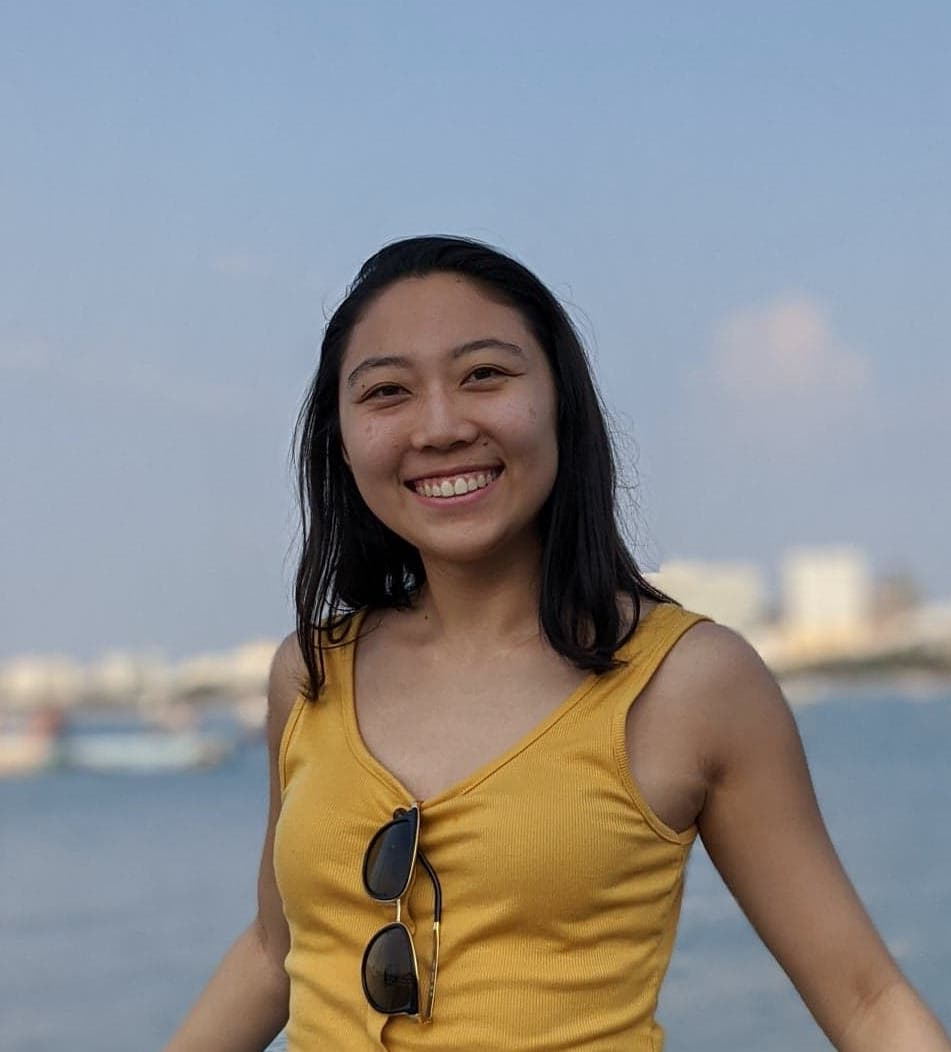
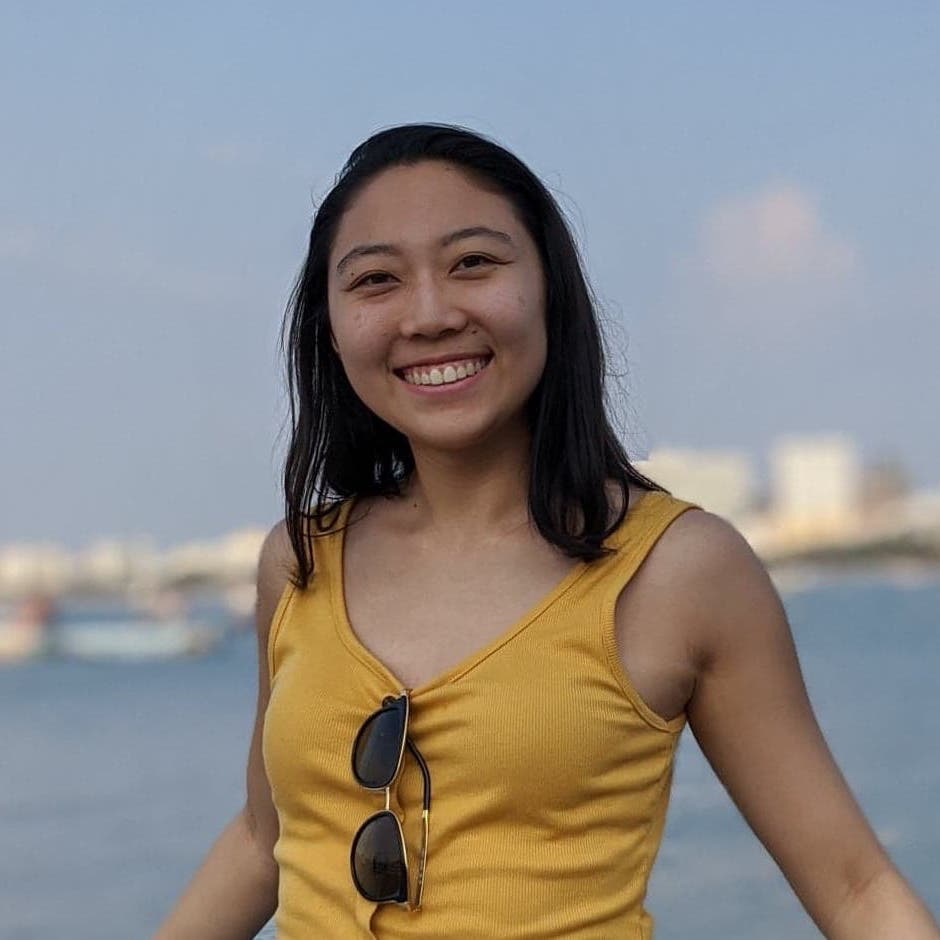
claire contact pic

diff --git a/give.html b/give.html
@@ -32,7 +32,7 @@
   <body>
     <nav class="navbar navbar-expand-lg navbar-light fixed-top py-3 bg-white" id="mainNav">
       <div class="container">
-        <a class="navbar-brand js-scroll-trigger" href="#page-top">
+        <a class="navbar-brand js-scroll-trigger" href="./index.html">
             <div class="logo"><img src="assets/img/logo.svg"></div>
         </a>
         <button class="navbar-toggler navbar-toggler-right" type="button" data-toggle="collapse" data-target="#navbarResponsive" aria-controls="navbarResponsive" aria-expanded="false" aria-label="Toggle navigation"><span class="navbar-toggler-icon"></span></button>

diff --git a/providers.html b/providers.html
@@ -33,7 +33,7 @@
   <body>
     <nav class="navbar navbar-expand-lg navbar-light fixed-top py-3 bg-white" id="mainNav">
       <div class="container">
-        <a class="navbar-brand js-scroll-trigger" href="#page-top">
+        <a class="navbar-brand js-scroll-trigger" href="./index.html">
             <div class="logo"><img src="assets/img/logo.svg"></div>
         </a>
         <button class="navbar-toggler navbar-toggler-right" type="button" data-toggle="collapse" data-target="#navbarResponsive" aria-controls="navbarResponsive" aria-expanded="false" aria-label="Toggle navigation"><span class="navbar-toggler-icon"></span></button>

diff --git a/index.html b/index.html
@@ -352,7 +352,7 @@
           </div>
           <div class="col-lg-4">
             <div class="team-member">
-              <img class="mx-auto rounded-circle"  alt="" />
+              <img class="mx-auto rounded-circle" src="assets/img/contact/claire.jpg" alt="" />
               <h4>Claire Wang</h4>
               <p class="text-muted">Site Development<br>
               	<a href="mailto:claire.w8808@gmail.com">claire.w8808@gmail.com</a></p>
